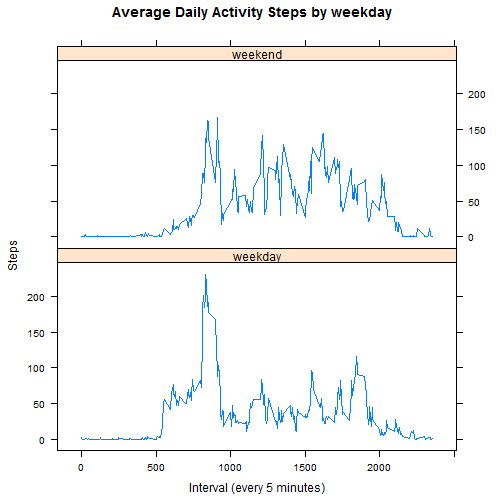
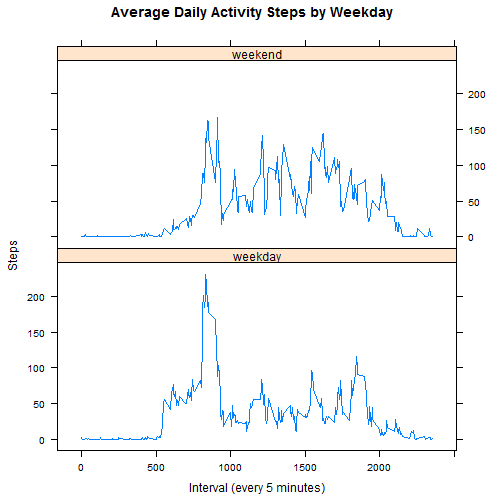
2nd

Changed region(s): [[0.2083, 0.0, 0.7738, 0.0595]]

diff --git a/PA1_template.html b/PA1_template.html
@@ -193,25 +193,22 @@ vdata &lt;- data.table(read.csv(unz(&quot;activity.zip&quot;, &quot;activity.csv
 
 <pre><code class="r">setkey(vdata, date)
 totalstepsperday &lt;- vdata[, list(steps = sum(steps, na.rm = FALSE)), by = date]
-hist(totalstepsperday$steps, col = &quot;red&quot;, breaks = 20, ylim = range(0, 20), 
+hist(totalstepsperday$steps, col = &quot;red&quot;, breaks = 10, ylim = range(0, 20), 
     xlab = &quot;Stes per day&quot;, main = &quot;Total number of steps per day&quot;)
 </code></pre>
 
[2 lines of base64/hex data omitted]
 
-<pre><code class="r">paste(&quot;Mean total number of steps taken per day:&quot;, round(mean(totalstepsperday$steps, 
-    na.rm = TRUE), 2))
+<pre><code class="r">meansteps &lt;- as.character(round(mean(totalstepsperday$steps, na.rm = TRUE), 
+    2))
+mediansteps &lt;- as.character(round(median(totalstepsperday$steps, na.rm = TRUE), 
+    2))
 </code></pre>
 
-<pre><code>## [1] &quot;Mean total number of steps taken per day: 10766.19&quot;
-</code></pre>
-
-<pre><code class="r">paste(&quot;Median total number of steps taken per day:&quot;, round(median(totalstepsperday$steps, 
-    na.rm = TRUE), 2))
-</code></pre>
-
-<pre><code>## [1] &quot;Median total number of steps taken per day: 10765&quot;
-</code></pre>
+<ul>
+<li>Mean total number of steps taken per day is <em>10766.19.</em></li>
+<li>Median total number of steps taken per day is <em>10765.</em></li>
+</ul>
 
 <h2>What is the average daily activity pattern?</h2>
 
@@ -222,55 +219,59 @@ plot(averagedailyactivity$interval, averagedailyactivity$averagesteps, type = &q
     xlab = &quot;Interval (every 5 minutes)&quot;, ylab = &quot;Steps&quot;, main = &quot;Average Daily Activity Steps (for 2 months)&quot;)
 </code></pre>
 
[2 lines of base64/hex data omitted]
 
 <pre><code class="r">Maximalnumberofsteps &lt;- round(max(averagedailyactivity$averagesteps), 2)
 Interval4MaxStep &lt;- sprintf(&quot;%04d&quot;, averagedailyactivity$interval[which.max(averagedailyactivity$averagesteps)])
-paste(&quot;Maximal number of steps&quot;, Maximalnumberofsteps, &quot;observed at interval&quot;, 
-    Interval4MaxStep)
 </code></pre>
 
-<pre><code>## [1] &quot;Maximal number of steps 206.17 observed at interval 0835&quot;
-</code></pre>
+<ul>
+<li>Maximal number of steps <em>206.17</em> observed at interval <em>0835</em>.</li>
+</ul>
 
 <h2>Imputing missing values</h2>
 
-<pre><code class="r">paste(&quot;Total number of missing values in the data set:&quot;, length(which(is.na(vdata[[1]]))))
+<pre><code class="r">nacount &lt;- length(which(is.na(vdata[[1]])))
 </code></pre>
 
-<pre><code>## [1] &quot;Total number of missing values in the data set: 2304&quot;
-</code></pre>
+<ul>
+<li>Total number of missing values in the data set is <em>2304</em>.</li>
+</ul>
 
-<pre><code class="r">
-vdatajoined &lt;- vdata[averagedailyactivity]
-vdatajoined &lt;- vdatajoined[order(date)]
+<h3>Imputing Strategy</h3>
+
+<ul>
+<li>Use [5-minute interval activity averaged for all date] for imputation</li>
+<li>Join the [original data] with [averaged activity for all date] - left join.</li>
+</ul>
+
+<pre><code class="r">vdatajoined &lt;- vdata[averagedailyactivity]  #left join
+vdatajoined &lt;- vdatajoined[order(date)]  #order by date
 vdatajoined$stepsimputed &lt;- vdatajoined$steps
-filter &lt;- is.na(vdatajoined$steps)
-vdatajoined$stepsimputed[filter] &lt;- vdatajoined$averagesteps[filter]
+filter &lt;- is.na(vdatajoined$steps)  # select the NA rows
+vdatajoined$stepsimputed[filter] &lt;- vdatajoined$averagesteps[filter]  #fill with the averaged activity for all date
 vdataimputed &lt;- vdatajoined[, list(steps = stepsimputed, date, interval)]
-
 setkey(vdataimputed, date)
 totalstepsperdayimputed &lt;- vdataimputed[, list(steps = sum(steps, na.rm = FALSE)), 
-    by = date]
-hist(totalstepsperdayimputed$steps, col = &quot;red&quot;, breaks = 20, ylim = range(0, 
+    by = date]  #sum (activity) by group (date)
+</code></pre>
+
+<pre><code class="r">hist(totalstepsperdayimputed$steps, col = &quot;red&quot;, breaks = 10, ylim = range(0, 
     20), xlab = &quot;Stes per day&quot;, main = &quot;Total number of steps per day (after imputation)&quot;)
 </code></pre>
 
[2 lines of base64/hex data omitted]
 
-<pre><code class="r">paste(&quot;Mean total number of steps taken per day:&quot;, round(mean(totalstepsperdayimputed$steps, 
-    na.rm = TRUE), 2))
+<pre><code class="r">meansteps &lt;- as.character(round(mean(totalstepsperdayimputed$steps, na.rm = TRUE), 
+    2))
+mediansteps &lt;- as.character(round(median(totalstepsperdayimputed$steps, na.rm = TRUE), 
+    2))
 </code></pre>
 
-<pre><code>## [1] &quot;Mean total number of steps taken per day: 10766.19&quot;
-</code></pre>
-
-<pre><code class="r">paste(&quot;Median total number of steps taken per day:&quot;, round(median(totalstepsperdayimputed$steps, 
-    na.rm = TRUE), 2))
-</code></pre>
-
-<pre><code>## [1] &quot;Median total number of steps taken per day: 10766.19&quot;
-</code></pre>
+<ul>
+<li>Mean total number of steps taken per day is <em>10766.19.</em></li>
+<li>Median total number of steps taken per day is <em>10766.19.</em></li>
+</ul>
 
 <h2>Are there differences in activity patterns between weekdays and weekends?</h2>
 
@@ -285,10 +286,10 @@ averagedailyactivityimputed &lt;- vdataimputed[, list(averagesteps = mean(steps,
     na.rm = TRUE)), by = &quot;interval,weekend&quot;]
 xyplot(averagesteps ~ interval | weekend, data = averagedailyactivityimputed, 
     layout = c(1, 2), type = &quot;l&quot;, xlab = &quot;Interval (every 5 minutes)&quot;, ylab = &quot;Steps&quot;, 
-    main = &quot;Average Daily Activity Steps by weekday&quot;)
+    main = &quot;Average Daily Activity Steps by Weekday&quot;)
 </code></pre>
 
[2 lines of base64/hex data omitted]
 
 </body>
 

diff --git a/PA1_template.md b/PA1_template.md
@@ -16,30 +16,23 @@ vdata <- data.table(read.csv(unz("activity.zip", "activity.csv"), header = T,
 ```r
 setkey(vdata, date)
 totalstepsperday <- vdata[, list(steps = sum(steps, na.rm = FALSE)), by = date]
-hist(totalstepsperday$steps, col = "red", breaks = 20, ylim = range(0, 20), 
+hist(totalstepsperday$steps, col = "red", breaks = 10, ylim = range(0, 20), 
     xlab = "Stes per day", main = "Total number of steps per day")
 ```
 
 ![plot of chunk mean total number of steps](figure/mean_total_number_of_steps.png) 
 
-```r
-paste("Mean total number of steps taken per day:", round(mean(totalstepsperday$steps, 
-    na.rm = TRUE), 2))
-```
 
-```
-## [1] "Mean total number of steps taken per day: 10766.19"
-```
 
 ```r
-paste("Median total number of steps taken per day:", round(median(totalstepsperday$steps, 
-    na.rm = TRUE), 2))
+meansteps <- as.character(round(mean(totalstepsperday$steps, na.rm = TRUE), 
+    2))
+mediansteps <- as.character(round(median(totalstepsperday$steps, na.rm = TRUE), 
+    2))
 ```
 
-```
-## [1] "Median total number of steps taken per day: 10765"
-```
-
+- Mean total number of steps taken per day is *10766.19.*
+- Median total number of steps taken per day is *10765.*
 
 ## What is the average daily activity pattern?
 
@@ -51,64 +44,62 @@ plot(averagedailyactivity$interval, averagedailyactivity$averagesteps, type = "l
     xlab = "Interval (every 5 minutes)", ylab = "Steps", main = "Average Daily Activity Steps (for 2 months)")
 ```
 
-![plot of chunk average daily activity pattern](figure/average_daily_activity_pattern.png) 
+![plot of chunk histogram 1 - average daily activity pattern](figure/histogram_1_-_average_daily_activity_pattern.png) 
 
 ```r
 Maximalnumberofsteps <- round(max(averagedailyactivity$averagesteps), 2)
 Interval4MaxStep <- sprintf("%04d", averagedailyactivity$interval[which.max(averagedailyactivity$averagesteps)])
-paste("Maximal number of steps", Maximalnumberofsteps, "observed at interval", 
-    Interval4MaxStep)
 ```
 
-```
-## [1] "Maximal number of steps 206.17 observed at interval 0835"
-```
+- Maximal number of steps *206.17* observed at interval *0835*.
+
 
 ## Imputing missing values
 
 ```r
-paste("Total number of missing values in the data set:", length(which(is.na(vdata[[1]]))))
+nacount <- length(which(is.na(vdata[[1]])))
 ```
 
-```
-## [1] "Total number of missing values in the data set: 2304"
-```
+- Total number of missing values in the data set is *2304*.
+
+### Imputing Strategy
+- Use [5-minute interval activity averaged for all date] for imputation
+- Join the [original data] with [averaged activity for all date] - left join.
+
+
 
 ```r
-
-vdatajoined <- vdata[averagedailyactivity]
-vdatajoined <- vdatajoined[order(date)]
+vdatajoined <- vdata[averagedailyactivity]  #left join
+vdatajoined <- vdatajoined[order(date)]  #order by date
 vdatajoined$stepsimputed <- vdatajoined$steps
-filter <- is.na(vdatajoined$steps)
-vdatajoined$stepsimputed[filter] <- vdatajoined$averagesteps[filter]
+filter <- is.na(vdatajoined$steps)  # select the NA rows
+vdatajoined$stepsimputed[filter] <- vdatajoined$averagesteps[filter]  #fill with the averaged activity for all date
 vdataimputed <- vdatajoined[, list(steps = stepsimputed, date, interval)]
-
 setkey(vdataimputed, date)
 totalstepsperdayimputed <- vdataimputed[, list(steps = sum(steps, na.rm = FALSE)), 
-    by = date]
-hist(totalstepsperdayimputed$steps, col = "red", breaks = 20, ylim = range(0, 
+    by = date]  #sum (activity) by group (date)
+```
+
+
+
+```r
+hist(totalstepsperdayimputed$steps, col = "red", breaks = 10, ylim = range(0, 
     20), xlab = "Stes per day", main = "Total number of steps per day (after imputation)")
 ```
 
-![plot of chunk Imputing missing values](figure/Imputing_missing_values.png) 
+![plot of chunk histogram 2](figure/histogram_2.png) 
+
 
 ```r
-paste("Mean total number of steps taken per day:", round(mean(totalstepsperdayimputed$steps, 
-    na.rm = TRUE), 2))
+meansteps <- as.character(round(mean(totalstepsperdayimputed$steps, na.rm = TRUE), 
+    2))
+mediansteps <- as.character(round(median(totalstepsperdayimputed$steps, na.rm = TRUE), 
+    2))
 ```
 
-```
-## [1] "Mean total number of steps taken per day: 10766.19"
-```
+- Mean total number of steps taken per day is *10766.19.*
+- Median total number of steps taken per day is *10766.19.*
 
-```r
-paste("Median total number of steps taken per day:", round(median(totalstepsperdayimputed$steps, 
-    na.rm = TRUE), 2))
-```
-
-```
-## [1] "Median total number of steps taken per day: 10766.19"
-```
 
 ## Are there differences in activity patterns between weekdays and weekends?
 
@@ -125,7 +116,7 @@ averagedailyactivityimputed <- vdataimputed[, list(averagesteps = mean(steps,
     na.rm = TRUE)), by = "interval,weekend"]
 xyplot(averagesteps ~ interval | weekend, data = averagedailyactivityimputed, 
     layout = c(1, 2), type = "l", xlab = "Interval (every 5 minutes)", ylab = "Steps", 
-    main = "Average Daily Activity Steps by weekday")
+    main = "Average Daily Activity Steps by Weekday")
 ```
 
 ![plot of chunk differences in activity patterns between weekdays and weekends](figure/differences_in_activity_patterns_between_weekdays_and_weekends.png) 
